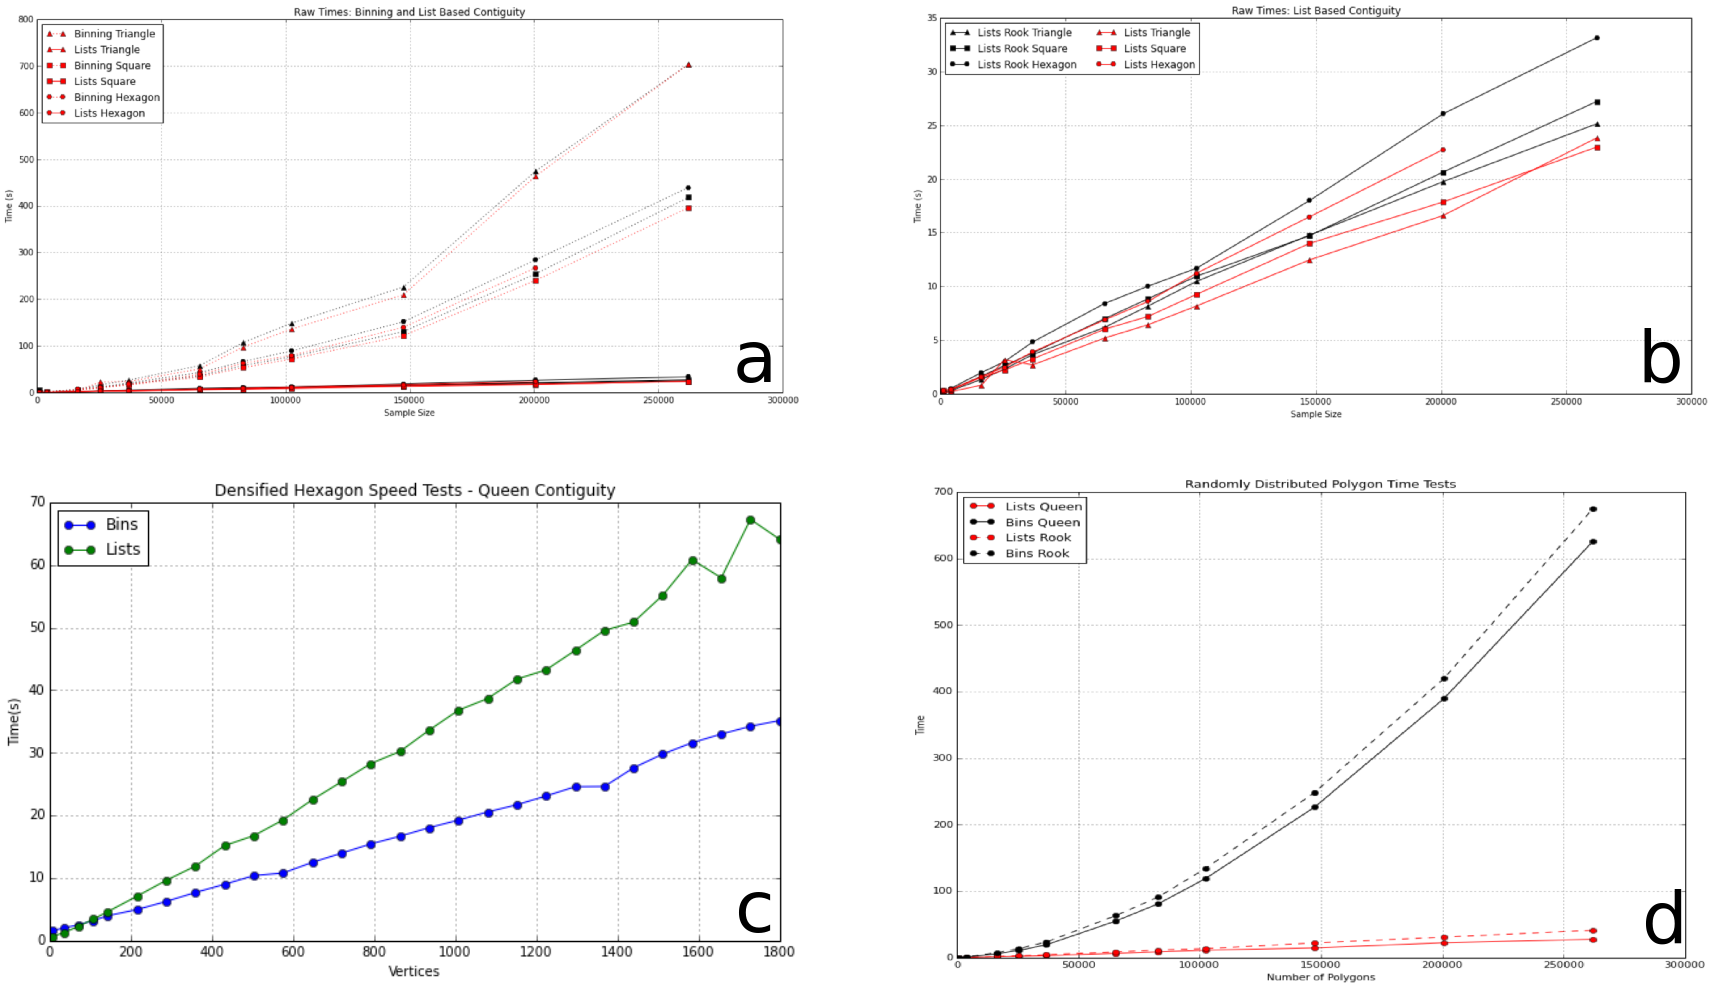
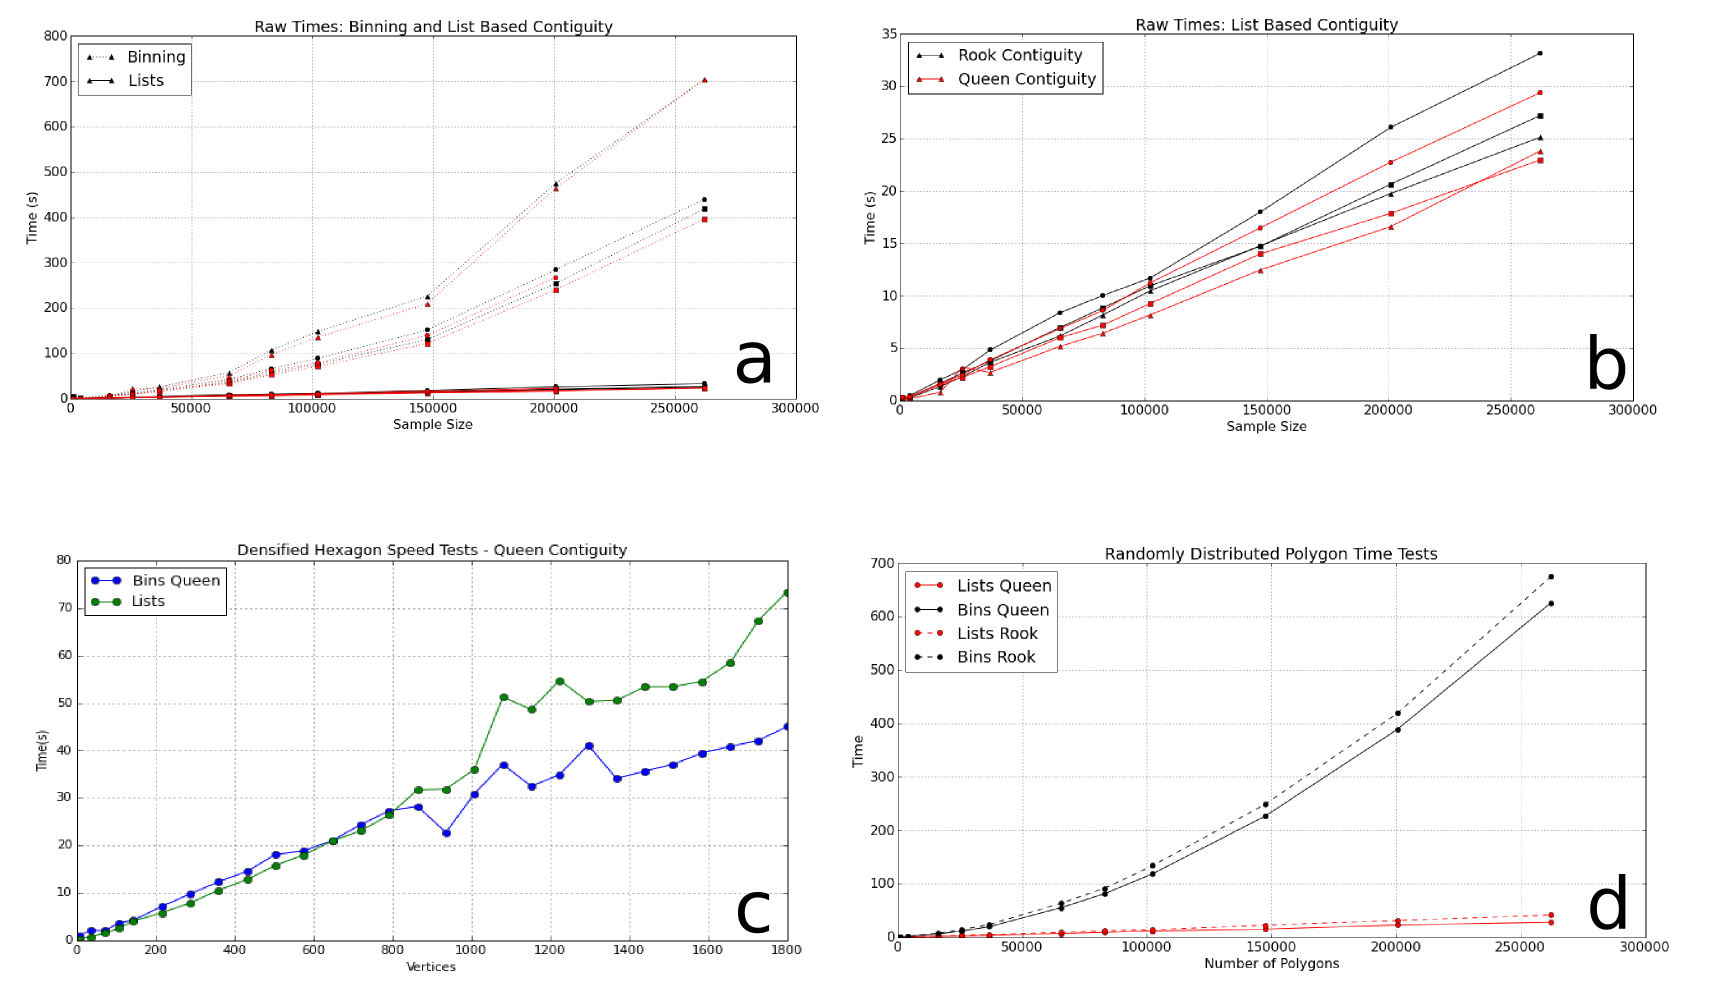
Updated figure and fixed references

diff --git a/papers/jay_laura/jlaura.rst b/papers/jay_laura/jlaura.rst
@@ -22,7 +22,7 @@ Adjacency and neighbor structures play an essential role in many spatial analyti
 Introduction
 ------------
 
-Within the context of spatial analysis and spatial econometrics the topology of irregularly shaped and distributed observational units plays an essential role in modeling underlying processes [Anselin1988]_.  The concept of first and higher order spatial adjacency finds application in tests for global spatial autocorrelation, e.g., Moran's I [Anselin1996a]_, spatial regression models[Ward2007]_, and spatially constrained regionalization models [Duque2012]_.  The execution of any of these aforementioned spatial analytical techniques requires the generation of some representation of the underlying connectivity of the observational (polygon) units.
+Within the context of spatial analysis and spatial econometrics the topology of irregularly shaped and distributed observational units plays an essential role in modeling underlying processes [Anselin1988]_.  The concept of first and higher order spatial adjacency finds application in tests for global spatial autocorrelation, e.g., Moran's I [Anselin1996a]_, spatial regression models [Ward2007]_, and spatially constrained regionalization models [Duque2012]_.  The execution of any of these aforementioned spatial analytical techniques requires the generation of some representation of the underlying connectivity of the observational (polygon) units.
 
 The computation of a spatial adjacency structure is most frequently a precursor to more complex process models, i.e. a pre-processing step.  This processing step occurs dynamically, i.e. the data is not loaded into a spatial database where efficient indexing structures can be pre-generated.  Therefore, the computational cost of generating these data structures is often overlooked in the assessment of global algorithmic performance.  
 
@@ -119,7 +119,7 @@ Experiment
 
 Hardware
 =========
-All tests were performed on a 3.1 Ghz, dual core Intel i3-2100 machine with 4GB of RAM running Ubuntu 64-bit 14.04 LTS.  The iPython[Perez2007]_ notebook environment was used to initiate and analyse all tests.  All other non-system processes were terminated.
+All tests were performed on a 3.1 Ghz, dual core Intel i3-2100 machine with 4GB of RAM running Ubuntu 64-bit 14.04 LTS.  The IPython [Perez2007]_ notebook environment was used to initiate and analyse all tests.  All other non-system processes were terminated.
 
 Experiments
 ===========
@@ -138,7 +138,7 @@ Finally, in Figure (:ref:`merged`)(d) the total compute time using randomly dist
 
 .. figure:: merged.png
    :align: center
-   :scale: 30 %
+   :scale: 45 %
    :figclass: w
 
    Spatial binning and list based performance comparison showing: (a) scaling a total synthetic data size increases, (b) list based scaling using synthetic data, (c) scaling performance as the total number of vertices is increased, and (d) randomly distirbuted data with varying neighbor cardinality and vertex counts. :label:`merged`
